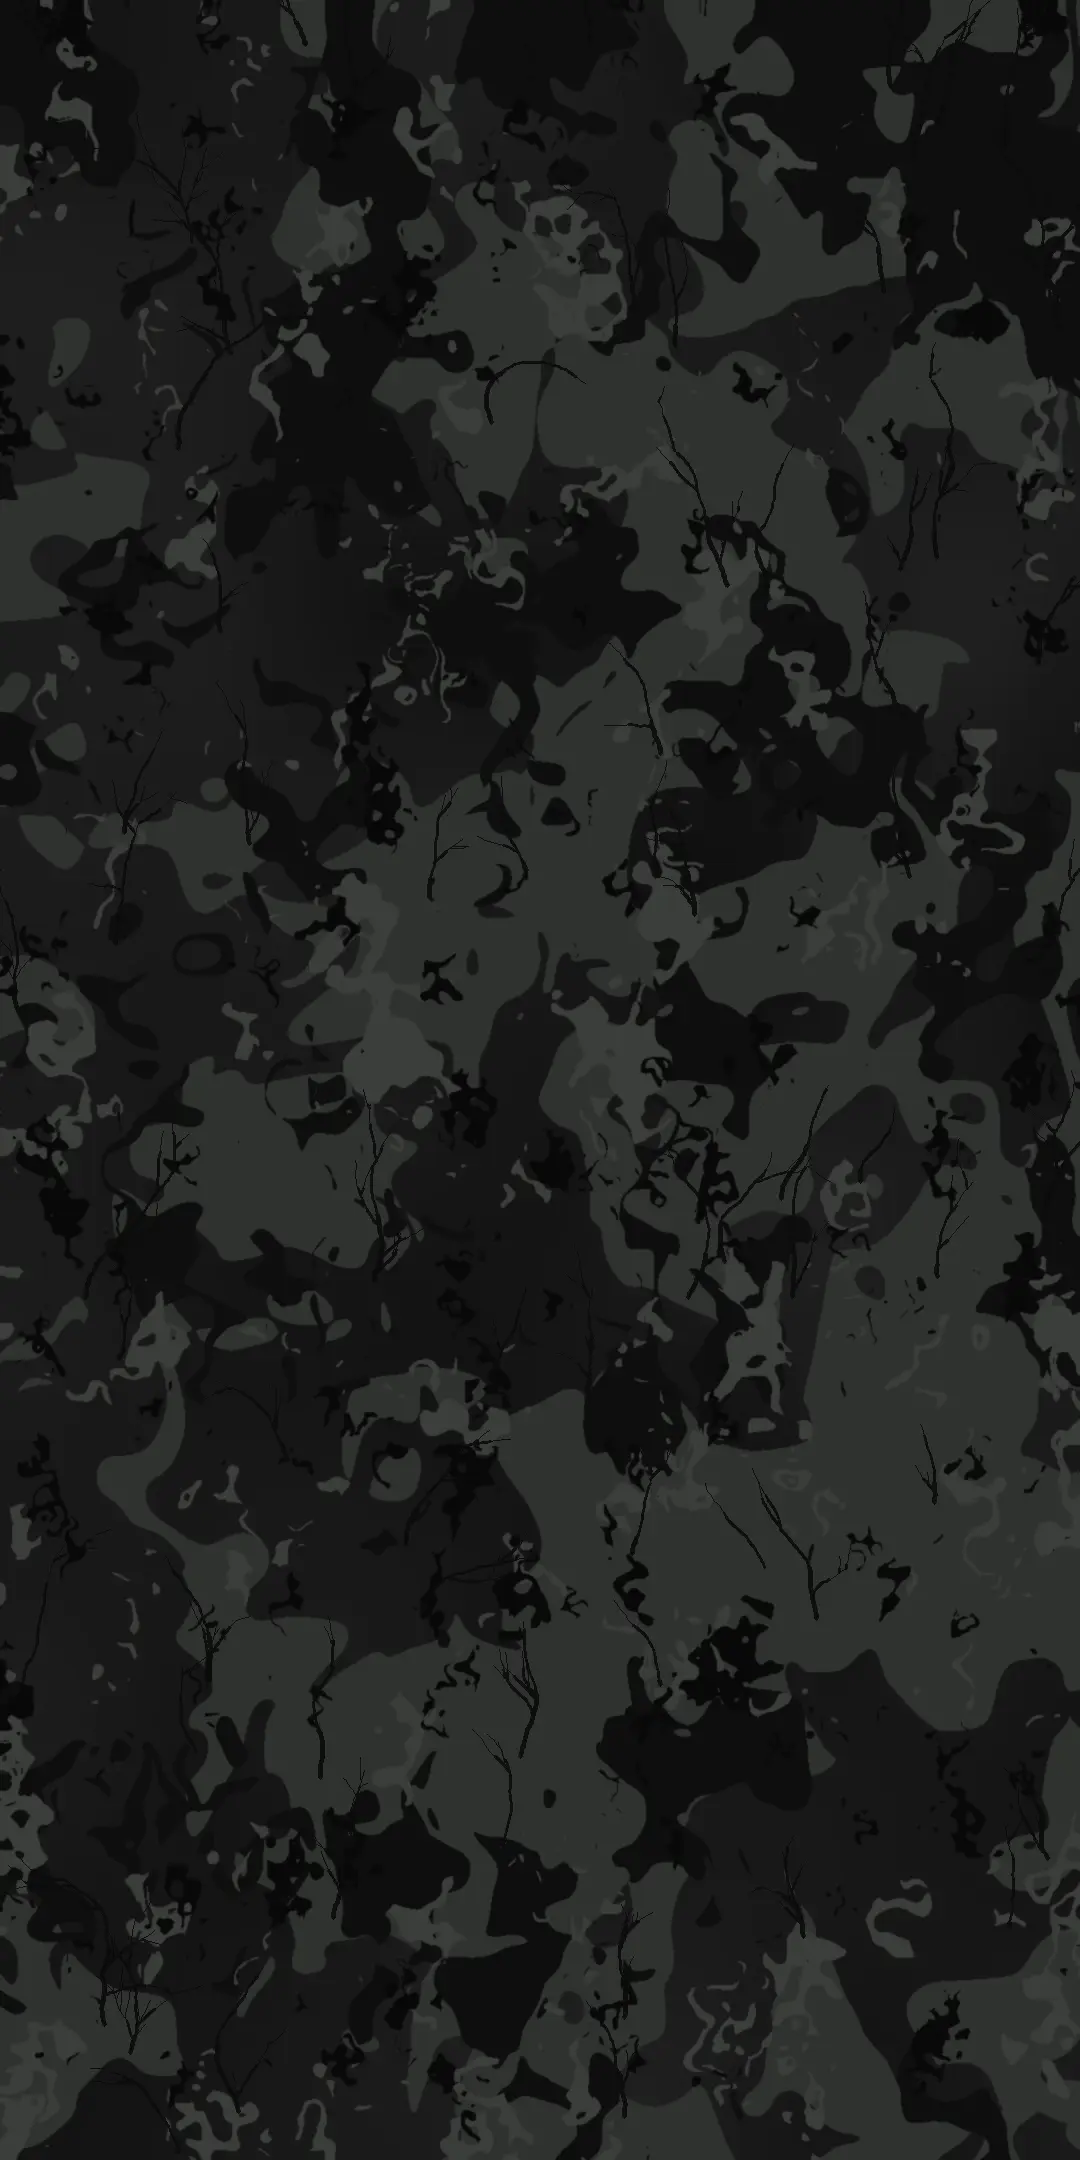
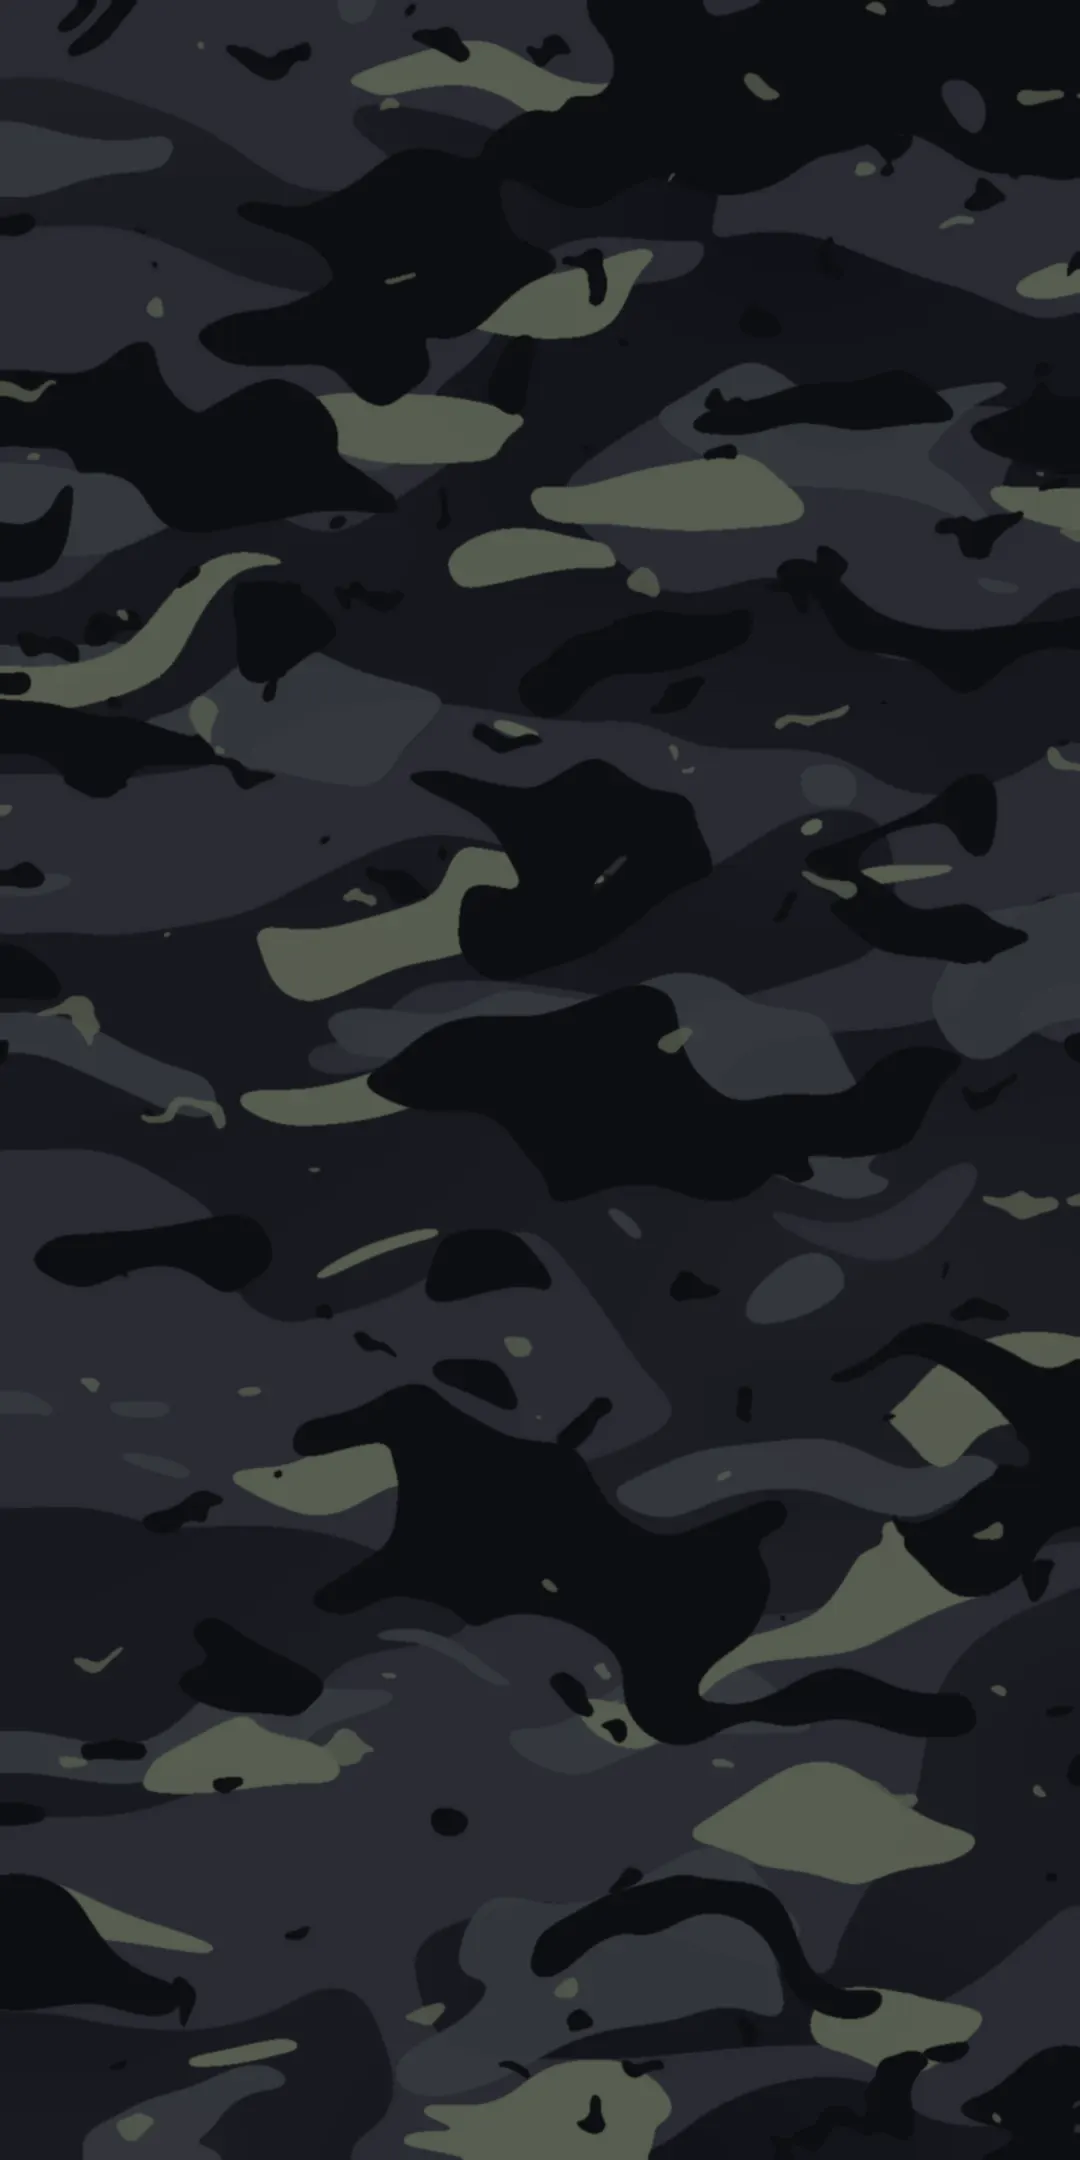
0.7.93: чорний камуфляж у стилі мультикаму, темніші соти, групи на картках

diff --git a/css/app.css b/css/app.css
@@ -350,8 +350,8 @@ button, input, select, textarea { font: inherit; color: inherit; }
 .fold[open] > .fold-head .chevron { transform: rotate(90deg); }
 .fold-title { font-size: 17px; font-weight: 800; letter-spacing: .01em; }
 .fold-meta { color: var(--muted); font-size: 13px; }
-/* Групи журналу лежать просто на фоні — заголовок картою, щоб не губився на візерунку */
-.fold[data-key^="log:"] > .fold-head { padding: 6px 12px 6px 8px; background: var(--surface); border: 1px solid var(--line);
+/* Групи на сторінці (Журнал, Компоненти, спорядження, хроно, цілі) лежать просто на фоні — заголовок карткою, щоб не губився на візерунку */
+#view .fold > .fold-head { padding: 6px 12px 6px 8px; background: var(--surface); border: 1px solid var(--line);
   border-radius: 14px; box-shadow: var(--shadow); }
 .fold-sum {
   margin-left: auto;
@@ -2920,11 +2920,11 @@ body:has(.guide .sim.quiz-on) .topbar, body:has(.guide .sim.quiz-on) #view .rang
   linear-gradient(#171818 25%, #151616 25%, #151616 50%, transparent 50%, transparent 75%, #1d1e1f 75%, #1d1e1f) 0 0 / 20px 20px, #141515; }
 [data-bg="coyote"] { --paper: radial-gradient(70% 40% at 100% 0%, rgb(236 127 47 / .18), transparent 70%),
   radial-gradient(130% 70% at 0% 0%, #3b2f20, transparent 70%), linear-gradient(180deg, #221b13 0%, #100d09 100%); }
-/* Камуфляж — свій узор (camo*.webp): плями, гілочки; «з сотами» — ще й шестигранники; у світлій — альпійський, сірий */
-[data-bg="camo"] { --paper: url(camo.webp) center / cover no-repeat, #141614; }
+/* Чорний камуфляж — свій узор у стилі чорного мультикаму (camo.webp): синювато-чорна основа, сланцеві поля, оливкові «язики»;
+   «з сотами» (camo-hex.webp, лише в темній) — плями, гілочки й шестигранники; у світлій — альпійський, сірий */
+[data-bg="camo"] { --paper: url(camo.webp) center / cover no-repeat, #17181d; }
 [data-bg="camo-hex"] { --paper: url(camo-hex.webp) center / cover no-repeat, #141614; }
 [data-bg="l-camo"] { --paper: url(camo-light.webp) center / cover no-repeat, #eceee9; }
-[data-bg="l-camo-hex"] { --paper: url(camo-hex-light.webp) center / cover no-repeat, #eceee9; }
 [data-bg="l-plain"] { --paper: radial-gradient(120% 60% at 50% -10%, #e8eae1, #f1f2ec 60%), #f1f2ec; }
 /* «Пісок» і «Хакі» — палітри світлої теми: міняють і картки, лінії, сірий текст, не лише тло (тло саме під картками майже не видно) */
 :root[data-bg="l-sand"] { --bg: #f1e6d1; --bg-glow: #e3dbc9; --surface: #f8f4eb; --surface-2: #efe8da; --seg-on: #fcf9f2; --line: #ddd3bf; --line-soft: #e7dfcf;
@@ -2942,8 +2942,9 @@ body:has(.guide .sim.quiz-on) .topbar, body:has(.guide .sim.quiz-on) #view .rang
 :root[data-bg="map"], :root[data-bg="olive"] { --bg: #131b11; }
 :root[data-bg="carbon"] { --bg: #131414; }
 :root[data-bg="coyote"] { --bg: #1b160f; }
-:root:is([data-bg="camo"], [data-bg="camo-hex"]) { --bg: #141614; }
-:root:is([data-bg="l-camo"], [data-bg="l-camo-hex"]) { --bg: #e9ebe6; }
+:root[data-bg="camo"] { --bg: #17181d; }
+:root[data-bg="camo-hex"] { --bg: #141614; }
+:root[data-bg="l-camo"] { --bg: #e9ebe6; }
 :root[data-bg="l-map"] { --bg: #f3eee2; }
 :root[data-bg="l-mm"] { --bg: #f5f6ef; }
 :root[data-bg] body { background: var(--paper); background-attachment: fixed; }

diff --git a/js/app.js b/js/app.js
@@ -6345,15 +6345,15 @@ function themePref() {
 // Фон під картками — свій набір для темної й світлої теми; перший (без малюнка) — за замовчуванням, у нічній фону немає
 const BACKDROPS = {
   dark: [['plain', 'Без рисунка'], ['map', 'Карта'], ['olive', 'Олива'], ['carbon', 'Карбон'], ['coyote', 'Койот'], ['camo', 'Чёрный камуфляж'], ['camo-hex', 'Камуфляж с сотами']],
-  light: [['l-plain', 'Без рисунка'], ['l-map', 'Карта'], ['l-mm', 'Миллиметровка'], ['l-sand', 'Песок'], ['l-khaki', 'Хаки'], ['l-camo', 'Камуфляж'], ['l-camo-hex', 'Камуфляж с сотами']],
+  light: [['l-plain', 'Без рисунка'], ['l-map', 'Карта'], ['l-mm', 'Миллиметровка'], ['l-sand', 'Песок'], ['l-khaki', 'Хаки'], ['l-camo', 'Камуфляж']],
 };
 const BG_KEY = { dark: 'shooters-log:bg', light: 'shooters-log:bg-light' };
 
 function backdropPref(theme) {
   const list = BACKDROPS[theme];
   if (!list) return null;
-  // «Блокнот» і «Олива» (лише 31.10) злиті з «Піском» і «Хакі», «Гадюку» замінив камуфляж
-  const v = { 'l-note': 'l-sand', 'l-olive': 'l-khaki', viper: 'camo', 'l-viper': 'l-camo' }[recall(BG_KEY[theme])] ?? recall(BG_KEY[theme]);
+  // «Блокнот» і «Олива» (лише 31.10) злиті з «Піском» і «Хакі», «Гадюку» замінив камуфляж, світлі соти прибрано
+  const v = { 'l-note': 'l-sand', 'l-olive': 'l-khaki', viper: 'camo', 'l-viper': 'l-camo', 'l-camo-hex': 'l-camo' }[recall(BG_KEY[theme])] ?? recall(BG_KEY[theme]);
   return list.some(([k]) => k === v) ? v : list[0][0];
 }
 

diff --git a/js/changelog.js b/js/changelog.js
@@ -2,6 +2,17 @@
 // Кожен реліз — запис тут (uk і ru), інакше після оновлення людина не побачить, що змінилося.
 export const CHANGES = [
   {
+    v: '0.7.93', date: '2026-10-31',
+    uk: [
+      '«Чорний камуфляж» перемальовано в стилі чорного мультикаму; камуфляж із сотами темніший і лишився тільки в темній темі',
+      'Групи в Компонентах, спорядженні, хроно й цілях — на картках, як у Журналі: на візерунчастому фоні читаються',
+    ],
+    ru: [
+      '«Чёрный камуфляж» перерисован в стиле чёрного мультикама; камуфляж с сотами темнее и остался только в тёмной теме',
+      'Группы в Компонентах, снаряжении, хроно и мишенях — на карточках, как в Журнале: на узорном фоне читаются',
+    ],
+  },
+  {
     v: '0.7.92', date: '2026-10-31',
     uk: [
       'Застосунок тепер зветься Shooter’s Log',

diff --git a/version.js b/version.js
@@ -1,5 +1,5 @@
 // Підняти при кожному релізі: від цього залежить оновлення кешу service worker.
-self.APP_VERSION = '0.7.92';
+self.APP_VERSION = '0.7.93';
 // Номер складання: версію для людей лишаємо, а цей рядок міняється з кожним оновленням —
 // інакше service worker вважає файли тими самими й не пропонує оновитись.
-self.APP_BUILD = '2026-10-31-10';
+self.APP_BUILD = '2026-10-31-11';

diff --git a/sw.js b/sw.js
@@ -13,7 +13,6 @@ const ASSETS = [
   './css/camo.webp',
   './css/camo-hex.webp',
   './css/camo-light.webp',
-  './css/camo-hex-light.webp',
   './js/app.js',
   './js/config.js',
   './js/db.js',
